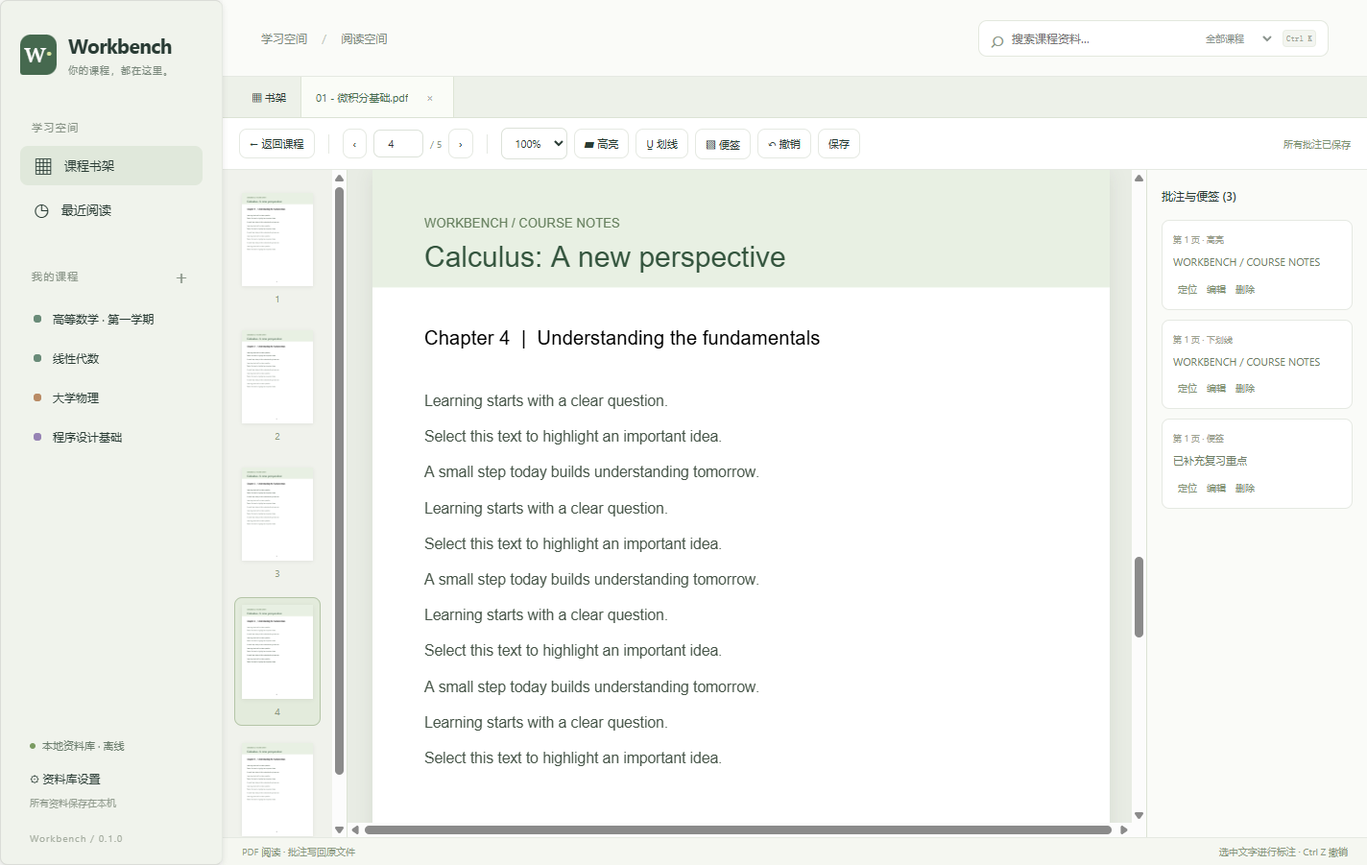
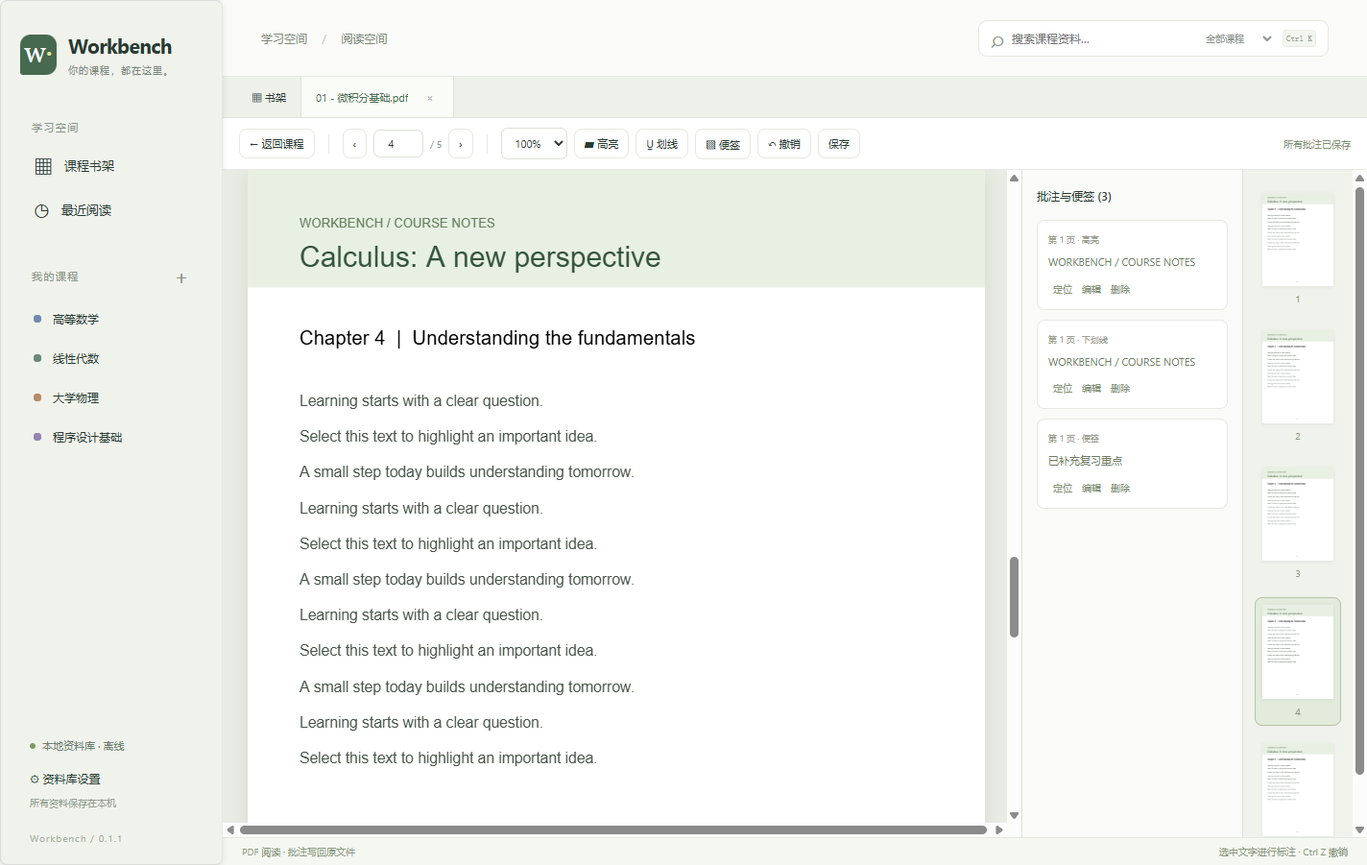
Improve slide navigation with right previews and fullscreen presentation

diff --git a/renderer/app.js b/renderer/app.js
@@ -7,7 +7,7 @@ const colors = ['#698b78','#718bb3','#b98b65','#9683b4','#ba7d86','#6f9b9c'];
 const categories = ['课程资料','作业','其他资料'];
 let state = { root:null,courses:[],files:[],folders:[],warnings:[] };
 let view = 'home', courseId = null, category = categories[0], sub = '', query = '', scope = 'all', sort = 'name', desc = false;
-let activeTab = null, toastTimer, modalResolve;
+let activeTab = null, toastTimer, modalResolve, presentationTab = null;
 const tabs = new Map();
 const workspace = $('#workspace');
 function toast(message, error = false) { $('#toast').textContent = message; $('#toast').className = error ? 'error' : ''; $('#toast').hidden = false; clearTimeout(toastTimer); toastTimer = setTimeout(() => $('#toast').hidden = true, error ? 8500 : 3500); }
@@ -114,6 +114,7 @@ document.addEventListener('click',e=>{
   const fm=e.target.closest('[data-folder-menu]');if(fm)safe(()=>fileMenu(null,fm.dataset.folderMenu));
 });
 document.addEventListener('keydown',e=>{
+  if(view==='reader'&&tabs.get(activeTab)?.handleKey(e))return;
   if(e.ctrlKey&&e.key.toLowerCase()==='k'){e.preventDefault();$('#search').focus();}
   if((e.key==='Enter'||e.key===' ')&&e.target.matches('[role=button]')){e.preventDefault();e.target.click();}
   if(view==='reader'&&e.ctrlKey&&e.key.toLowerCase()==='z'&&!e.target.matches('input,textarea')){e.preventDefault();tabs.get(activeTab)?.undo();}
@@ -124,10 +125,34 @@ workspace.addEventListener('dragleave',e=>{if(!workspace.contains(e.relatedTarge
 workspace.addEventListener('drop',async e=>{e.preventDefault();workspace.classList.remove('drop-active');if(view!=='course'||query)return;await safe(async()=>{const drop=await api.prepareDrop(Array.from(e.dataTransfer.files));if(!drop.count)return;const data=await modal(`<h2>移动 ${drop.count} 项到资料库？</h2><p>文件会从原位置移到“${esc(currentCourse().name)} / ${esc(category)}${sub?' / '+esc(sub):''}”，只保留一份。</p>`,'移动并导入');if(data){state=await busy('正在移动资料…',()=>api.importDrop(drop.token,courseId,category,sub));render();}});});
 
 class ReaderTab {
-  constructor(file,data,pdf) { this.file=file;this.pdf=pdf;this.kind=data.kind;this.hash=data.hash;this.annotations=data.annotations;this.page=data.page;this.total=data.total;this.zoom=1;this.history=[];this.dirty=false;this.saving=Promise.resolve();this.pages=new Map();this.renderTasks=new Set();this.container=document.createElement('section');this.container.className='reader';this.build(); }
+  constructor(file,data,pdf) { this.file=file;this.pdf=pdf;this.kind=data.kind;this.hash=data.hash;this.annotations=data.annotations;this.page=data.page;this.total=data.total;this.zoom=1;this.history=[];this.dirty=false;this.saving=Promise.resolve();this.pages=new Map();this.renderTasks=new Set();this.layoutGeneration=0;this.presenting=false;this.clickToAdvance=false;this.container=document.createElement('section');this.container.className='reader';this.build(); }
   build() {
     this.container.innerHTML=`<div class="reader-tabs"></div><div class="reader-toolbar"><button data-reader="back" title="回到课程">← 返回课程</button><span class="sep"></span><button data-reader="prev">‹</button><input class="page-number" type="number" min="1" max="${this.total}" value="${this.page}" aria-label="当前页码"><small>/ ${this.total}</small><button data-reader="next">›</button><span class="sep"></span><select class="zoom" aria-label="阅读缩放"><option value="0.75">75%</option><option value="1" selected>100%</option><option value="1.25">125%</option><option value="1.5">150%</option></select><button data-reader="highlight" title="选中文字后高亮">▰ 高亮</button><button data-reader="underline" title="选中文字后加下划线">U̲ 划线</button><button data-reader="note" title="选中文字添加便签，或在当前页添加">▧ 便签</button><button data-reader="undo">↶ 撤销</button><button data-reader="retry">保存</button><span class="save-status">所有批注已保存</span></div><div class="reader-body"><aside class="thumbnails"></aside><div class="page-scroll"></div><aside class="annotation-panel"><h3>批注与便签 <span class="annotation-count"></span></h3><div class="annotation-list"></div></aside></div><footer class="reader-footer"><span>${this.kind==='ppt'?'PPT 静态阅读 · 批注写回原课件':'PDF 阅读 · 批注写回原文件'}</span><span>选中文字进行标注 · Ctrl Z 撤销</span></footer>`;
     this.scroller=this.container.querySelector('.page-scroll');this.thumbs=this.container.querySelector('.thumbnails');
+    this.container.querySelector('.reader-body').append(this.thumbs);
+    this.thumbs.setAttribute('aria-label','页面缩略图预览');
+    this.scroller.tabIndex=0;
+    this.container.classList.toggle('is-ppt',this.kind==='ppt');
+    if(this.kind==='ppt') {
+      this.container.querySelector('.save-status').insertAdjacentHTML('beforebegin','<button data-reader="click-mode" aria-pressed="false" title="开启后单击页面翻到下一页；需要选字批注时可关闭">点击翻页：关</button><button data-reader="present" title="全屏显示课件，单击或按方向键翻页，Esc 退出">⛶ 全屏放映</button>');
+      this.container.querySelector('.reader-footer span:last-child').textContent='← → / PageUp PageDown 翻页 · F5 全屏 · Ctrl Z 撤销';
+      const controls=document.createElement('div');controls.className='presentation-controls';controls.hidden=true;
+      controls.innerHTML='<span>单击下一页 · 右键上一页</span><button data-reader="prev" aria-label="上一页">‹</button><span class="presentation-page"></span><button data-reader="next" aria-label="下一页">›</button><button data-reader="exit-present">退出全屏 (Esc)</button>';
+      this.container.append(controls);
+    }
+    this.scroller.addEventListener('click',e=>{
+      if(this.kind!=='ppt'||(!this.presenting&&!this.clickToAdvance)||e.button!==0||e.detail>1||e.ctrlKey||e.metaKey||e.altKey)return;
+      if(!this.presenting&&(e.target.closest('[data-note-id]')||!window.getSelection()?.isCollapsed))return;
+      this.go(this.page+1);
+    });
+    this.scroller.addEventListener('contextmenu',e=>{if(this.presenting){e.preventDefault();this.go(this.page-1);}});
+    this.resizeObserver=new ResizeObserver(()=>{
+      const size=[this.scroller.clientWidth,this.scroller.clientHeight];
+      if(this.lastSize?.every((v,i)=>Math.abs(v-size[i])<2))return;
+      this.lastSize=size;clearTimeout(this.resizeTimer);
+      if(this.pages.size&&this.container.isConnected)this.resizeTimer=setTimeout(()=>safe(()=>this.layout()),100);
+    });
+    this.resizeObserver.observe(this.scroller);
     // Preserve the text selection while clicking a formatting button.
     this.container.querySelector('.reader-toolbar').addEventListener('mousedown',e=>{if(e.target.closest('[data-reader]')&&!['prev','next','back'].includes(e.target.closest('[data-reader]').dataset.reader))e.preventDefault();});
     this.container.addEventListener('click',e=>safe(async()=>{
@@ -138,6 +163,13 @@ class ReaderTab {
       if(['highlight','underline','note'].includes(command))return this.addMark(command);
       if(command==='undo')return this.undo();
       if(command==='retry')return this.save();
+      if(command==='present')return this.setPresentation(true);
+      if(command==='exit-present')return this.setPresentation(false);
+      if(command==='click-mode'){
+        this.clickToAdvance=!this.clickToAdvance;
+        const button=this.container.querySelector('[data-reader="click-mode"]');button.setAttribute('aria-pressed',String(this.clickToAdvance));button.textContent='点击翻页：'+(this.clickToAdvance?'开':'关');
+        this.scroller.classList.toggle('click-to-advance',this.clickToAdvance);return;
+      }
       const page=e.target.closest('[data-page-go]');if(page)this.go(Number(page.dataset.pageGo));
       const del=e.target.closest('[data-mark-delete]');if(del){this.checkpoint();this.annotations=this.annotations.filter(a=>a.id!==del.dataset.markDelete);this.changed();}
       const edit=e.target.closest('[data-mark-edit]');if(edit)await this.editMark(edit.dataset.markEdit);
@@ -156,15 +188,19 @@ class ReaderTab {
     this.updatePanel();
   }
   async layout() {
+    const generation=++this.layoutGeneration;
     this.observer?.disconnect();for(const task of this.renderTasks)task.cancel();this.renderTasks.clear();
     for(const p of this.pages.values())p.text?.cancel();this.pages.clear();this.scroller.replaceChildren();this.thumbs.replaceChildren();
     const first=await this.pdf.getPage(1), base=first.getViewport({scale:1});
-    this.baseScale=Math.min(1.2,Math.max(0.45,(this.scroller.clientWidth-60)/base.width))*this.zoom;
+    if(this.destroyed||generation!==this.layoutGeneration)return;
+    this.baseScale=this.kind==='ppt'
+      ? Math.max(.05,Math.min((this.scroller.clientWidth-48)/base.width,(this.scroller.clientHeight-48)/base.height))*(this.presenting?1:this.zoom)
+      : Math.min(1.2,Math.max(0.45,(this.scroller.clientWidth-60)/base.width))*this.zoom;
     this.observer=new IntersectionObserver(entries=>{for(const e of entries)if(e.isIntersecting)safe(()=>this.renderPage(Number(e.target.dataset.number)));},{root:this.scroller,rootMargin:'500px'});
     for(let n=1;n<=this.total;n++){
       const el=document.createElement('div');el.className='pdf-page';el.dataset.number=String(n);el.style.width=base.width*this.baseScale+'px';el.style.height=base.height*this.baseScale+'px';el.style.setProperty('--total-scale-factor',String(this.baseScale));
       if(this.kind==='ppt')el.hidden=n!==this.page;
-      el.innerHTML='<div class="marks"></div>';this.scroller.append(el);this.pages.set(n,{el,rendering:false,rendered:false});this.observer.observe(el);
+      el.innerHTML='<div class="marks"></div>';this.scroller.append(el);this.pages.set(n,{el,scale:this.baseScale,rendering:false,rendered:false});this.observer.observe(el);
       const thumb=document.createElement('button');thumb.className='thumb';thumb.dataset.pageGo=String(n);thumb.innerHTML=`<canvas width="96" height="${Math.round(96*base.height/base.width)}"></canvas><span>${n}</span>`;this.thumbs.append(thumb);
     }
     this.thumbObserver?.disconnect();this.thumbObserver=new IntersectionObserver(entries=>{for(const e of entries)if(e.isIntersecting){this.thumbObserver.unobserve(e.target);safe(()=>this.renderThumb(Number(e.target.dataset.pageGo),e.target));}},{root:this.thumbs,rootMargin:'100px'});
@@ -175,14 +211,37 @@ class ReaderTab {
   async renderPage(n) {
     const item=this.pages.get(n);if(!item||item.rendering||item.rendered)return;item.rendering=true;
     const page=await this.pdf.getPage(n);if(this.pages.get(n)!==item)return;
-    const viewport=page.getViewport({scale:this.baseScale});item.el.style.width=viewport.width+'px';item.el.style.height=viewport.height+'px';
+    const viewport=page.getViewport({scale:item.scale});item.el.style.width=viewport.width+'px';item.el.style.height=viewport.height+'px';
     const canvas=document.createElement('canvas'),dpr=Math.min(2,devicePixelRatio);canvas.width=Math.ceil(viewport.width*dpr);canvas.height=Math.ceil(viewport.height*dpr);item.el.prepend(canvas);
     const task=page.render({canvasContext:canvas.getContext('2d'),viewport,transform:dpr===1?undefined:[dpr,0,0,dpr,0,0]});this.renderTasks.add(task);
     try { await task.promise;this.renderTasks.delete(task);if(this.pages.get(n)!==item)return;const text=document.createElement('div');text.className='textLayer';item.el.append(text);item.text=new pdfjs.TextLayer({textContentSource:page.streamTextContent(),container:text,viewport});await item.text.render();item.rendered=true; }
     catch(e){if(e.name!=='RenderingCancelledException'&&e.name!=='AbortException')throw e;}finally{item.rendering=false;this.renderTasks.delete(task);}
   }
-  setPage(n){this.page=n;this.container.querySelector('.page-number').value=String(n);for(const t of this.thumbs.children)t.classList.toggle('active',Number(t.dataset.pageGo)===n);const values={page:n,total:this.total,lastOpened:Date.now()};Object.assign(this.file,values);const entry=state.files.find(f=>f.id===this.file.id);if(entry)Object.assign(entry,values);safe(()=>api.progress(this.file.id,n,this.total));}
-  go(n){n=Math.max(1,Math.min(this.total,Math.trunc(n)||1));this.setPage(n);if(this.kind==='ppt'){for(const [p,item]of this.pages)item.el.hidden=p!==n;this.scroller.scrollTop=0;}else this.pages.get(n)?.el.scrollIntoView({block:'start'});safe(()=>this.renderPage(n));this.thumbs.querySelector(`[data-page-go="${n}"]`)?.scrollIntoView({block:'nearest'});}
+  setPage(n){this.page=n;this.container.querySelector('.page-number').value=String(n);for(const t of this.thumbs.children)t.classList.toggle('active',Number(t.dataset.pageGo)===n);for(const button of this.container.querySelectorAll('[data-reader="prev"]'))button.disabled=n===1;for(const button of this.container.querySelectorAll('[data-reader="next"]'))button.disabled=n===this.total;const label=this.container.querySelector('.presentation-page');if(label)label.textContent=n+' / '+this.total;const values={page:n,total:this.total,lastOpened:Date.now()};Object.assign(this.file,values);const entry=state.files.find(f=>f.id===this.file.id);if(entry)Object.assign(entry,values);safe(()=>api.progress(this.file.id,n,this.total));}
+  go(n){n=Math.max(1,Math.min(this.total,Math.trunc(n)||1));this.setPage(n);if(this.kind==='ppt'){for(const [p,item]of this.pages)item.el.hidden=p!==n;this.scroller.scrollTop=0;}else this.pages.get(n)?.el.scrollIntoView({block:'start'});safe(()=>this.renderPage(n));if(!this.presenting)this.thumbs.querySelector(`[data-page-go="${n}"]`)?.scrollIntoView({block:'nearest'});}
+  handleKey(e) {
+    if(this.kind!=='ppt'||$('#modal').open)return false;
+    if(e.key==='Escape'&&this.presenting){e.preventDefault();safe(()=>this.setPresentation(false));return true;}
+    if(e.ctrlKey||e.metaKey||e.altKey)return this.presenting;
+    if(e.target.closest('input,textarea,select,a,[contenteditable]'))return false;
+    if(e.key==='F5'){e.preventDefault();safe(()=>this.setPresentation(!this.presenting));return true;}
+    if(e.target.closest('button')&&[' ','Enter'].includes(e.key))return false;
+    const target={ArrowRight:this.page+1,ArrowDown:this.page+1,PageDown:this.page+1,' ':this.page+1,Enter:this.page+1,ArrowLeft:this.page-1,ArrowUp:this.page-1,PageUp:this.page-1,Backspace:this.page-1,Home:1,End:this.total}[e.key];
+    if(target===undefined)return false;
+    e.preventDefault();this.go(target);return true;
+  }
+  async setPresentation(enabled,native=true) {
+    if(this.kind!=='ppt'||this.destroyed||enabled===this.presenting)return;
+    this.presenting=enabled;presentationTab=enabled?this:null;
+    this.container.classList.toggle('presenting',enabled);
+    this.container.querySelector('.presentation-controls').hidden=!enabled;
+    window.getSelection()?.removeAllRanges();
+    try { if(native)await api.setReaderFullscreen(enabled); }
+    catch(e){this.presenting=false;presentationTab=null;this.container.classList.remove('presenting');this.container.querySelector('.presentation-controls').hidden=true;throw e;}
+    if(this.destroyed)return;
+    await new Promise(resolve=>requestAnimationFrame(resolve));
+    await this.layout();this.scroller.focus({preventScroll:true});
+  }
   selection() {
     const selection=window.getSelection();if(!selection||selection.isCollapsed||!selection.rangeCount)return null;const range=selection.getRangeAt(0);const start=(range.startContainer.nodeType===1?range.startContainer:range.startContainer.parentElement)?.closest('.pdf-page'),end=(range.endContainer.nodeType===1?range.endContainer:range.endContainer.parentElement)?.closest('.pdf-page');
     if(!start||start!==end||!this.scroller.contains(start))throw Error('请在同一页内选择文字后批注');
@@ -199,7 +258,7 @@ class ReaderTab {
   save(){clearTimeout(this.saveTimer);this.saving=this.saving.then(async()=>{if(!this.dirty)return;const snapshot=JSON.stringify(this.annotations);this.status('正在写回原文件…');try{const result=await api.saveAnnotations(this.file.id,this.hash,JSON.parse(snapshot));this.hash=result.hash;if(JSON.stringify(this.annotations)===snapshot)this.dirty=false;this.status(this.dirty?'有新的更改等待保存':'所有批注已保存');}catch(e){this.status('保存失败 · 点击保存重试',true);toast(e.message,true);}});return this.saving;}
   drawMarks(){for(const [n,item]of this.pages){const marks=item.el.querySelector('.marks');marks.innerHTML=this.annotations.filter(a=>a.page===n).map(a=>(a.type==='note'?a.rects.slice(0,1):a.rects).map(r=>`<span class="mark ${a.type}" ${a.type==='note'?`data-note-id="${a.id}" title="${esc(a.text)}"`:''} style="left:${r.x*100}%;top:${r.y*100}%;width:${r.w*100}%;height:${r.h*100}%">${a.type==='note'?'≡':''}</span>`).join('')).join('');}}
   updatePanel(){this.container.querySelector('.annotation-count').textContent=`(${this.annotations.length})`;this.container.querySelector('.annotation-list').innerHTML=this.annotations.length?this.annotations.map(a=>`<div class="annotation-item"><small>第 ${a.page} 页 · ${{highlight:'高亮',underline:'下划线',note:'便签'}[a.type]}</small><p>${esc(a.text)||'无文字说明'}</p><button data-mark-jump="${a.page}">定位</button><button data-mark-edit="${a.id}">编辑</button><button data-mark-delete="${a.id}">删除</button></div>`).join(''):'<p class="muted" style="line-height:1.9">选中文字，然后点击高亮或划线。<br><br>也可以给当前页面留一张便签。</p>';}
-  destroy(){this.destroyed=true;this.observer?.disconnect();this.thumbObserver?.disconnect();clearTimeout(this.saveTimer);for(const p of this.pages.values())p.text?.cancel();for(const t of this.renderTasks)t.cancel();this.pdf.loadingTask.destroy().catch(()=>{});this.container.remove();}
+  destroy(){if(this.presenting){presentationTab=null;safe(()=>api.setReaderFullscreen(false));}this.destroyed=true;this.resizeObserver?.disconnect();clearTimeout(this.resizeTimer);this.observer?.disconnect();this.thumbObserver?.disconnect();clearTimeout(this.saveTimer);for(const p of this.pages.values())p.text?.cancel();for(const t of this.renderTasks)t.cancel();this.pdf.loadingTask.destroy().catch(()=>{});this.container.remove();}
 }
 async function openFile(id) {
   if(tabs.has(id)){activeTab=id;view='reader';query='';$('#search').value='';render();return;}
@@ -214,4 +273,5 @@ function renderReader(){const active=tabs.get(activeTab)||tabs.values().next().v
 document.addEventListener('click',e=>safe(async()=>{const close=e.target.closest('[data-close-tab]');if(close){const id=close.dataset.closeTab,t=tabs.get(id);await t.save();if(t.dirty){const discard=await modal('<h2>批注还没有保存</h2><p>原文件可能已被其他程序修改，或暂时无法写入。取消可保留当前批注并继续重试；放弃后可以重新打开最新文件。</p>','放弃未保存批注并关闭');if(!discard)return;t.dirty=false;}t.destroy();tabs.delete(id);if(activeTab===id)activeTab=tabs.keys().next().value;if(!tabs.size)navigate('home');else renderReader();return;}const tab=e.target.closest('[data-tab]');if(tab){activeTab=tab.dataset.tab;view='reader';render();}if(e.target.closest('[data-tab-home]'))navigate('home');}));
 window.addEventListener('beforeunload',e=>{if([...tabs.values()].some(t=>t.dirty)){e.preventDefault();e.returnValue='';}});
 api.onChange(()=>safe(refresh));
+api.onFullscreenChange(enabled=>{if(!enabled&&presentationTab)safe(()=>presentationTab.setPresentation(false,false));});
 await safe(refresh);

diff --git a/renderer/styles.css b/renderer/styles.css
@@ -1,5 +1,22 @@
 @import url('../node_modules/pdfjs-dist/web/pdf_viewer.css');
 :root { color-scheme: light; --ink:#293b34; --muted:#8b948e; --green:#476c55; --line:#e5e9e2; --paper:#f7f8f5; font-family:'Segoe UI','Microsoft YaHei UI',sans-serif; font-size:14px; }
+.reader .thumbnails { border-right:0; border-left:1px solid #dce3d5; }
+.reader.is-ppt .page-scroll { display:grid; place-items:center; padding:24px; }
+.reader.is-ppt .pdf-page { margin:0 auto; }
+.reader .click-to-advance { cursor:pointer; }
+.reader .page-scroll:focus { outline:none; }
+.reader-toolbar button[aria-pressed="true"] { background:#e1ebd9; border-color:#9fb58f; color:#3e633e; }
+.reader button:disabled { opacity:.35; cursor:default; }
+.reader.presenting { position:fixed; inset:0; z-index:80; width:100%; height:100%; background:#141b18; }
+.reader.presenting .reader-tabs,.reader.presenting .reader-toolbar,.reader.presenting .reader-footer,.reader.presenting .thumbnails,.reader.presenting .annotation-panel { display:none; }
+.reader.presenting .page-scroll { background:#141b18; overflow:hidden; cursor:pointer; }
+.reader.presenting .pdf-page { box-shadow:none; }
+.reader.presenting .textLayer,.reader.presenting .marks,.reader.presenting .mark.note { pointer-events:none; user-select:none; }
+.presentation-controls { position:absolute; bottom:10px; right:16px; z-index:5; display:flex; align-items:center; gap:10px; padding:7px 10px; border-radius:10px; background:#1c2926dd; color:#eff4ee; font-size:12px; opacity:.65; }
+.presentation-controls:hover,.presentation-controls:focus-within { opacity:1; }
+.presentation-controls button { color:#eff4ee; background:#34433b; border-color:#536557; padding:6px 10px; font-size:12px; }
+.presentation-controls button:hover { background:#4a6050; }
+.presentation-controls>span:first-child { color:#c1cdbf; font-size:11px; }
 * { box-sizing:border-box } body { margin:0; background:var(--paper); color:var(--ink); height:100vh; display:flex; overflow:hidden; } button,input,select,textarea { font:inherit } button { cursor:pointer; color:inherit; border:1px solid var(--line); background:white; border-radius:8px; padding:9px 14px; transition:background .15s,box-shadow .15s; } button:hover { background:#eef2ec; } button:focus-visible,a:focus-visible { outline:2px solid #759b7f; outline-offset:3px; } input,select,textarea { border:1px solid #dce2d9; padding:10px 12px; border-radius:7px; background:white; color:var(--ink); } input:focus,textarea:focus,select:focus { outline:2px solid #b9cfbd; border-color:#698b78; } button.primary { background:var(--green); border-color:var(--green); color:white; } button.primary:hover { background:#365641; } button.danger { color:#ac4b4b; } button.ghost { border-color:transparent; background:transparent; } [hidden] { display:none !important; }
 .sidebar { width:232px; flex-shrink:0; background:#f0f3ec; border-right:1px solid var(--line); padding:32px 20px 20px; display:flex; flex-direction:column; } .brand { display:flex; gap:12px; color:var(--ink); text-decoration:none; font-size:21px; font-weight:650; letter-spacing:-.6px; align-items:center; margin-bottom:45px; } .brand small { display:block; font-size:10px; font-weight:400; letter-spacing:1px; color:#7b897d; margin-top:5px; } .brand-mark { background:#46694f; color:white; width:38px; height:42px; border-radius:11px 11px 11px 3px; text-align:center; line-height:37px; font-family:Georgia,serif; font-size:30px; font-weight:400; } .brand-mark span { color:#d9e5a0; } .nav-caption { font-size:11px; color:#899487; letter-spacing:1.4px; margin:0 12px 12px; } .nav-item { text-align:left; border:0; display:flex; align-items:center; width:100%; background:transparent; gap:12px; padding:12px 14px; margin-bottom:5px; font-size:13px; } .nav-item span { font-size:20px; line-height:16px; } .nav-item.active { background:#e0e8db; color:#416448; font-weight:600; } .course-caption { display:flex; align-items:center; justify-content:space-between; margin-top:30px; } .course-caption button { background:transparent; padding:0; border:0; font-size:20px; } #course-nav { overflow:auto; } .course-nav-item { display:flex; align-items:center; gap:12px; width:100%; background:transparent; border:0; text-align:left; font-size:12px; padding:11px 14px; margin-bottom:3px; } .course-nav-item.active { background:#e4eadd; } .color-dot { width:8px; height:8px; border-radius:3px; flex-shrink:0; } .sidebar-bottom { margin-top:auto; padding:28px 10px 0; } .local-pill { font-size:11px; color:#6b7d6d; display:flex; align-items:center; gap:7px; margin-bottom:17px; } .local-pill i { width:6px; height:6px; background:#7b9b62; border-radius:50%; } .root-button { padding:0; border:0; background:transparent; font-size:12px; } #root-label { display:block; margin-top:9px; color:#939d90; overflow:hidden; text-overflow:ellipsis; white-space:nowrap; font-size:10px; } .version { display:block; margin-top:23px; color:#a5ada0; font-size:10px; letter-spacing:1px; }
 main { flex:1; min-width:0; display:flex; flex-direction:column; } .topbar { height:80px; padding:0 40px; display:flex; align-items:center; justify-content:space-between; border-bottom:1px solid var(--line); background:#fafbf8; flex-shrink:0; gap:20px; } #breadcrumb { font-size:12px; color:#7e8b80; } #breadcrumb span { padding:0 12px; color:#bcc5b8; } .search-wrap { display:flex; align-items:center; gap:8px; border:1px solid #e3e8de; padding:0 12px; border-radius:9px; background:white; max-width:460px; } .search-wrap>span { font-size:24px; color:#8b9788; } .search-wrap input { border:0; background:none; width:190px; padding:10px 0; font-size:12px; } .search-wrap input:focus { outline:0; } .search-wrap select { padding:5px 0; border:0; font-size:10px; color:#8b948e; width:76px; } kbd { font-size:9px; background:#f3f5f0; color:#9aa393; border:1px solid #e9ede4; padding:3px; border-radius:4px; white-space:nowrap; }

diff --git a/renderer/index.html b/renderer/index.html
@@ -16,7 +16,7 @@
     <button class="nav-item" id="nav-recent"><span>◷</span> 最近阅读</button>
     <div class="nav-caption course-caption">我的课程 <button id="sidebar-add" title="新建课程">＋</button></div>
     <nav id="course-nav"></nav>
-    <div class="sidebar-bottom"><div class="local-pill"><i></i> 本地资料库 · 离线</div><button id="settings" class="root-button" title="选择资料库">⚙ 资料库设置</button><small id="root-label">尚未选择资料库</small><small class="version">Workbench / 0.1.0</small></div>
+    <div class="sidebar-bottom"><div class="local-pill"><i></i> 本地资料库 · 离线</div><button id="settings" class="root-button" title="选择资料库">⚙ 资料库设置</button><small id="root-label">尚未选择资料库</small><small class="version">Workbench / 0.1.1</small></div>
   </aside>
   <main>
     <header class="topbar"><div id="breadcrumb">学习空间 <span>/</span> 课程书架</div><div class="search-wrap"><span>⌕</span><input id="search" placeholder="搜索课程资料…" aria-label="搜索文件名"><select id="search-scope" aria-label="搜索范围"><option value="all">全部课程</option><option value="course">当前课程</option></select><kbd>Ctrl K</kbd></div></header>

diff --git a/README.md b/README.md
@@ -2,11 +2,11 @@
 
 一个本机离线的 Windows 课程资料管理与阅读工具。把分散的课程资料放到清晰的课程书架中，随时从上次阅读的位置继续。
 
-**当前版本：0.1.0，早期可用版本。** 普通用户可以直接下载安装包，无需安装 Node.js 或自行编译。源码、图标、测试和文档位于仓库，安装包通过 GitHub Releases 分发。
+**当前版本：0.1.1，早期可用版本。** 普通用户可以直接下载安装包，无需安装 Node.js 或自行编译。源码、图标、测试和文档位于仓库，安装包通过 GitHub Releases 分发。
 
 ## 下载安装
 
-1. [下载 Windows x64 安装包](https://github.com/yu2660/Workbench/releases/download/v0.1.0/Workbench-Setup-0.1.0.exe)，或打开 [Release 页面](https://github.com/yu2660/Workbench/releases/latest)。
+1. [下载 Windows x64 安装包](https://github.com/yu2660/Workbench/releases/download/v0.1.1/Workbench-Setup-0.1.1.exe)，或打开 [Release 页面](https://github.com/yu2660/Workbench/releases/latest)。
 2. 运行安装包，选择安装位置，按向导完成安装。
 3. 打开 Workbench，选择专用资料库文件夹，然后创建课程、添加文件。
 
@@ -21,10 +21,18 @@
 - 按文件名搜索全部课程或当前课程；按名称、添加时间、修改时间或最近打开排序。
 - 同步资料库目录变化，支持资源管理器定位和使用外部软件打开。
 - 在 app 内阅读 PDF 与 PPT/PPTX，支持多个标签、缩略图、缩放和页码跳转。
+- 缩略图预览位于阅读区最右侧；PPT 支持整页适配、全屏放映、鼠标点击和键盘翻页。
 - 自动记录每份文件的当前页码，列表显示「当前页 / 总页」；启动时进入书架。
 - 选中文字高亮、加下划线、添加中文便签；支持编辑、删除、自动保存和会话内撤销。
 
 ![阅读与批注，展示内容均为生成的演示资料](docs/images/reader.png)
+
+### PPT 翻页与全屏
+
+- 点击工具栏「全屏放映」或按 F5：课件按比例适配整个屏幕，隐藏课程、预览和批注侧栏。
+- 全屏时单击页面进入下一页，右键返回上一页；Esc 或「退出全屏」回到普通阅读并保留当前页码与缩放设置。
+- 普通阅读可开启「点击翻页」，默认关闭以便选字批注；拖选文字不会翻页。
+- 方向键、PageUp/PageDown、空格可翻页；Home/End 跳到首尾页。输入页码或编辑文字时不会抢占键盘。
 
 ## 使用前需要了解
 
@@ -61,7 +69,7 @@ npm run dist
 
 生成结果位于 `dist/`：
 
-- `Workbench Setup 0.1.0.exe`：NSIS 安装包，支持选择安装位置和创建桌面快捷方式。
+- `Workbench Setup 0.1.1.exe`：NSIS 安装包，支持选择安装位置和创建桌面快捷方式。
 - `win-unpacked/Workbench.exe`：解包后的程序；请保留整个 `win-unpacked` 文件夹一起使用。
 
 程序运行不需要额外安装 Node.js。安装包当前未进行代码签名，Windows 可能显示未知发布者。代码仓库不保存构建缓存或安装文件；可直接安装的程序和校验和通过 [GitHub Releases](https://github.com/yu2660/Workbench/releases) 提供。
@@ -83,6 +91,7 @@ node tests/operations.cjs
 python tests/inspect_pptx.py
 node tests/conflict.cjs
 node tests/cjk.cjs
+npm run test:navigation
 npm run licenses
 npm run dist
 node tests/packaged.cjs

diff --git a/docs/DESIGN.md b/docs/DESIGN.md
@@ -1,4 +1,4 @@
-# Workbench 0.1 第一版设计
+# Workbench 0.1 系列设计
 
 ## 产品范围
 
@@ -12,7 +12,9 @@
 
 1. **课程书架**：温和的鼠尾草绿与浅色背景、简洁课程卡片、封面颜色、资料数量、最近阅读。没有虚构课程或假数据；截图中的内容全部来自隔离的测试资料库。
 2. **课程页**：课程标题与设置，固定三栏目标签、文件夹面包屑、文件列表。文件夹优先，支持名称、添加时间、修改时间、最近打开的正倒序排列。行内显示当前页/总页、修改日期、大小和管理菜单。
-3. **阅读空间**：顶部多标签与工具栏；左侧缩略图、中间正文、右侧批注列表。PDF 连续滚动，PPT 单页翻页。支持页码跳转、75%–150% 缩放、选中文字高亮/下划线、中文便签、批注说明编辑、删除、40 步会话内撤销。Ctrl K 搜索，Ctrl Z 撤销批注。
+3. **阅读空间**：顶部多标签与工具栏；正文在左、批注列表在右、缩略图预览位于最右侧。PDF 连续滚动，PPT 单页翻页并默认按窗口整页适配。支持页码跳转、75%–150% 缩放、选中文字高亮/下划线、中文便签、批注说明编辑、删除、40 步会话内撤销。Ctrl K 搜索，Ctrl Z 撤销批注。
+
+PPT 点击「全屏放映」或按 F5 后进入真正的窗口全屏，课件保持比例适配，隐藏其他面板。单击下一页、右键上一页，支持方向键、PageUp/PageDown、空格及 Home/End；Esc 或退出按钮返回普通阅读，保留页码和原缩放。普通阅读提供默认关闭的「点击翻页」开关；拖选文字、便签和输入框操作不触发翻页。窗口尺寸变化时重新适配。
 
 进度如 20/100 表示当前页，不推断全部读过。每份文件保留独立页码。启动进入书架，点击文件恢复位置；标签只在当前会话中保留。
 

diff --git a/docs/VALIDATION.md b/docs/VALIDATION.md
@@ -1,5 +1,11 @@
 # Workbench 0.1 验证记录
 
+## 0.1.1 阅读导航更新（2026-10-22）
+
+`npm run test:navigation` 的 14 项检查通过，覆盖最右侧预览、PPT 整页适配、窗口缩放、点击翻页开关、拖选高亮、方向键/PageUp/PageDown/空格/Home/End、页码输入不抢键、真正窗口全屏、鼠标左右键、末页边界、Esc/按钮/系统退出全屏、缩放与进度保留、PDF 布局兼容及全屏 IPC 参数检查。测试使用 PowerPoint 创建的独立演示课件；截图和结果仅保存在本机 `test-output/`。原有 16 项核心测试与 15 项主要桌面流程已回归通过。最终打包程序另做 9 项检查，通过 PDF/PPTX 批注保存、最右侧预览和真实全屏点击翻页；发行代码与当前源码逐文件匹配，原安装/卸载向导的未覆盖限制不变。
+
+下方保留 0.1.0 的初版验收范围和已知限制。
+
 环境：Windows 11 x64（10.0.22631），Microsoft PowerPoint 16.0，Node.js 24.16.0，Electron 44.7.2。日期：2026-10-15。所有操作使用新建测试资料和隔离配置，不使用用户课程原件。
 
 ## 自动化与实测

diff --git a/docs/CHANGELOG.md b/docs/CHANGELOG.md
@@ -1,0 +1,15 @@
+# 更新记录
+
+## 0.1.1 — 2026-10-22
+
+- PDF/PPT 缩略图预览移动到阅读区最右侧。
+- PPT 默认整页适配窗口，调整窗口尺寸后自动重新适配。
+- 新增「全屏放映」与 F5 快捷键；单击下一页、右键上一页，Esc 退出。
+- 普通阅读新增可开关的「点击翻页」，默认关闭；拖选文字仍可批注。
+- 支持方向键、PageUp/PageDown、空格与 Home/End 翻页；页码输入、便签编辑和按钮键盘操作不受影响。
+- 退出全屏保留当前页与阅读缩放，系统退出全屏时同步恢复界面。
+- 增加 14 项阅读导航与全屏回归检查；未改变资料库结构。
+
+## 0.1.0 — 2026-10-15
+
+首个 Windows 安装版本：课程书架、三个固定栏目、文件和文件夹管理、PDF/PPT 阅读、阅读位置记录、基础批注写回和本机离线资料库。
